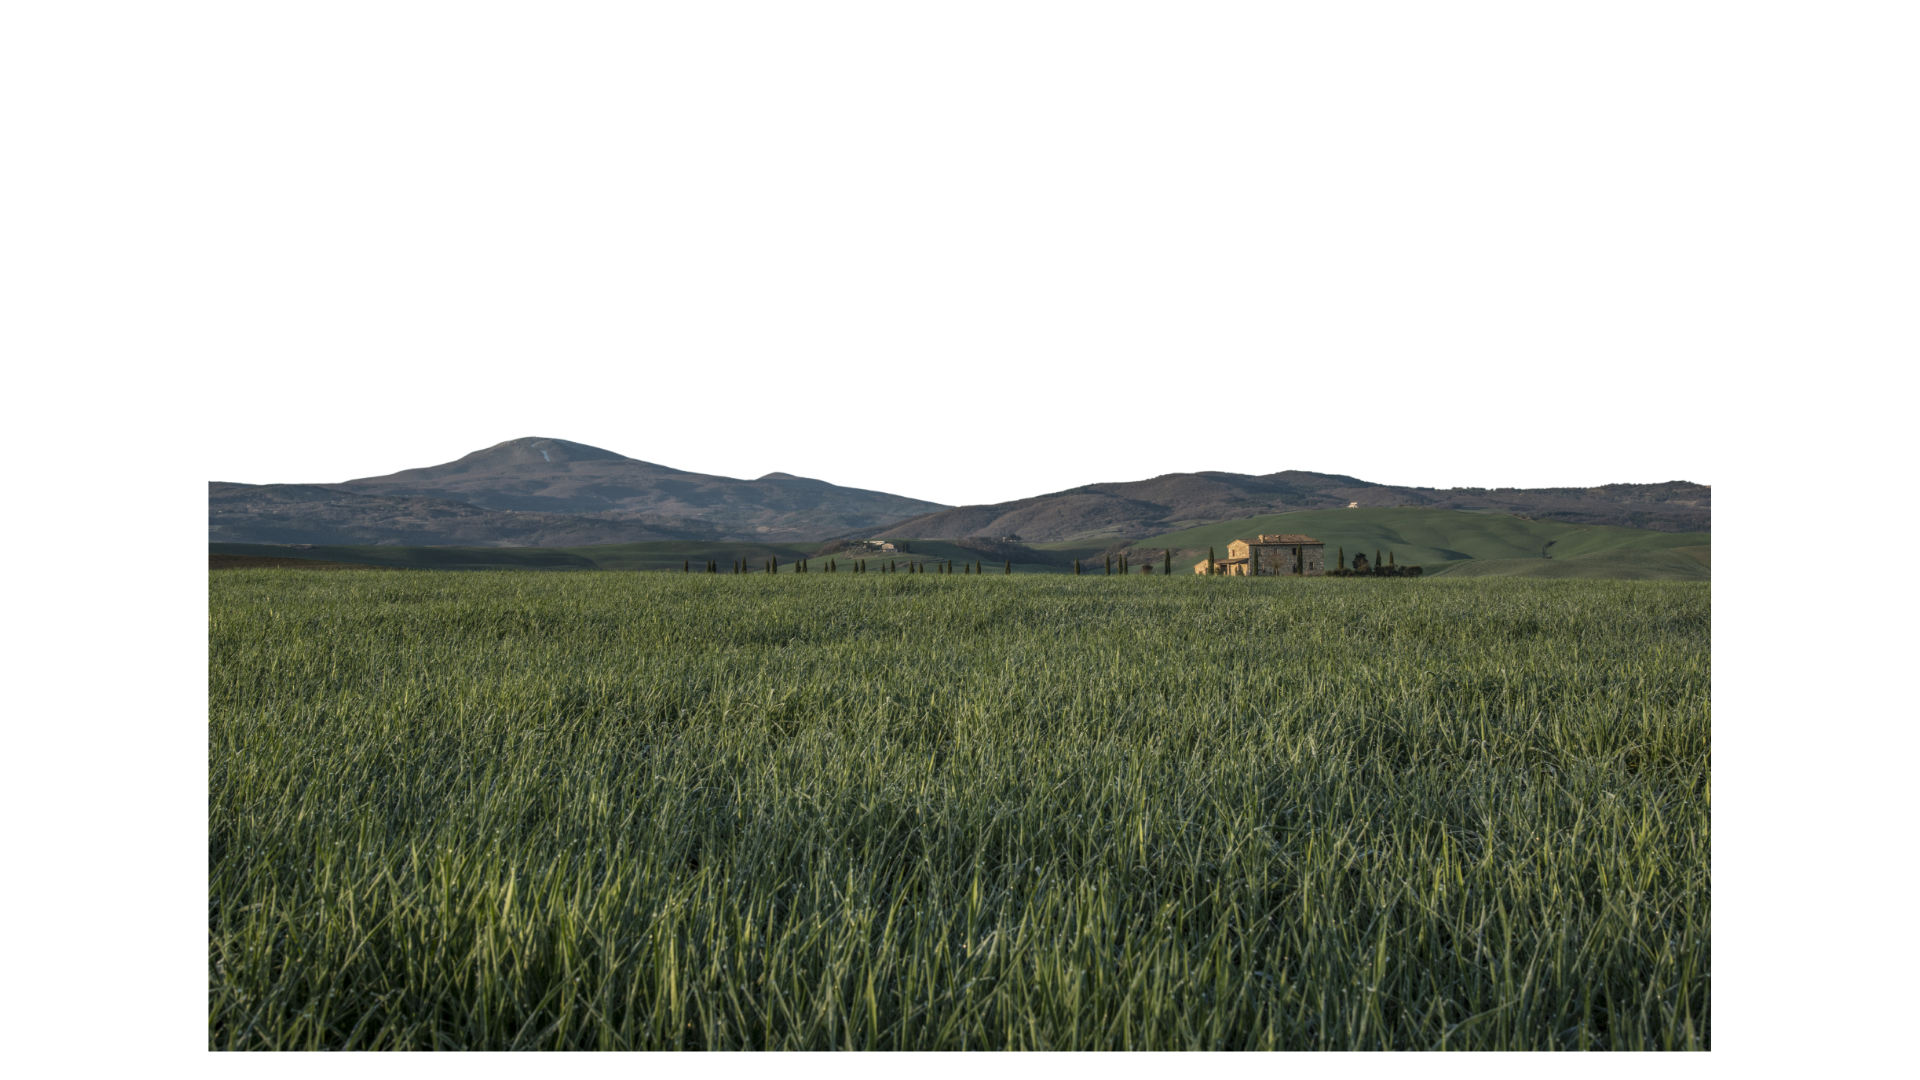
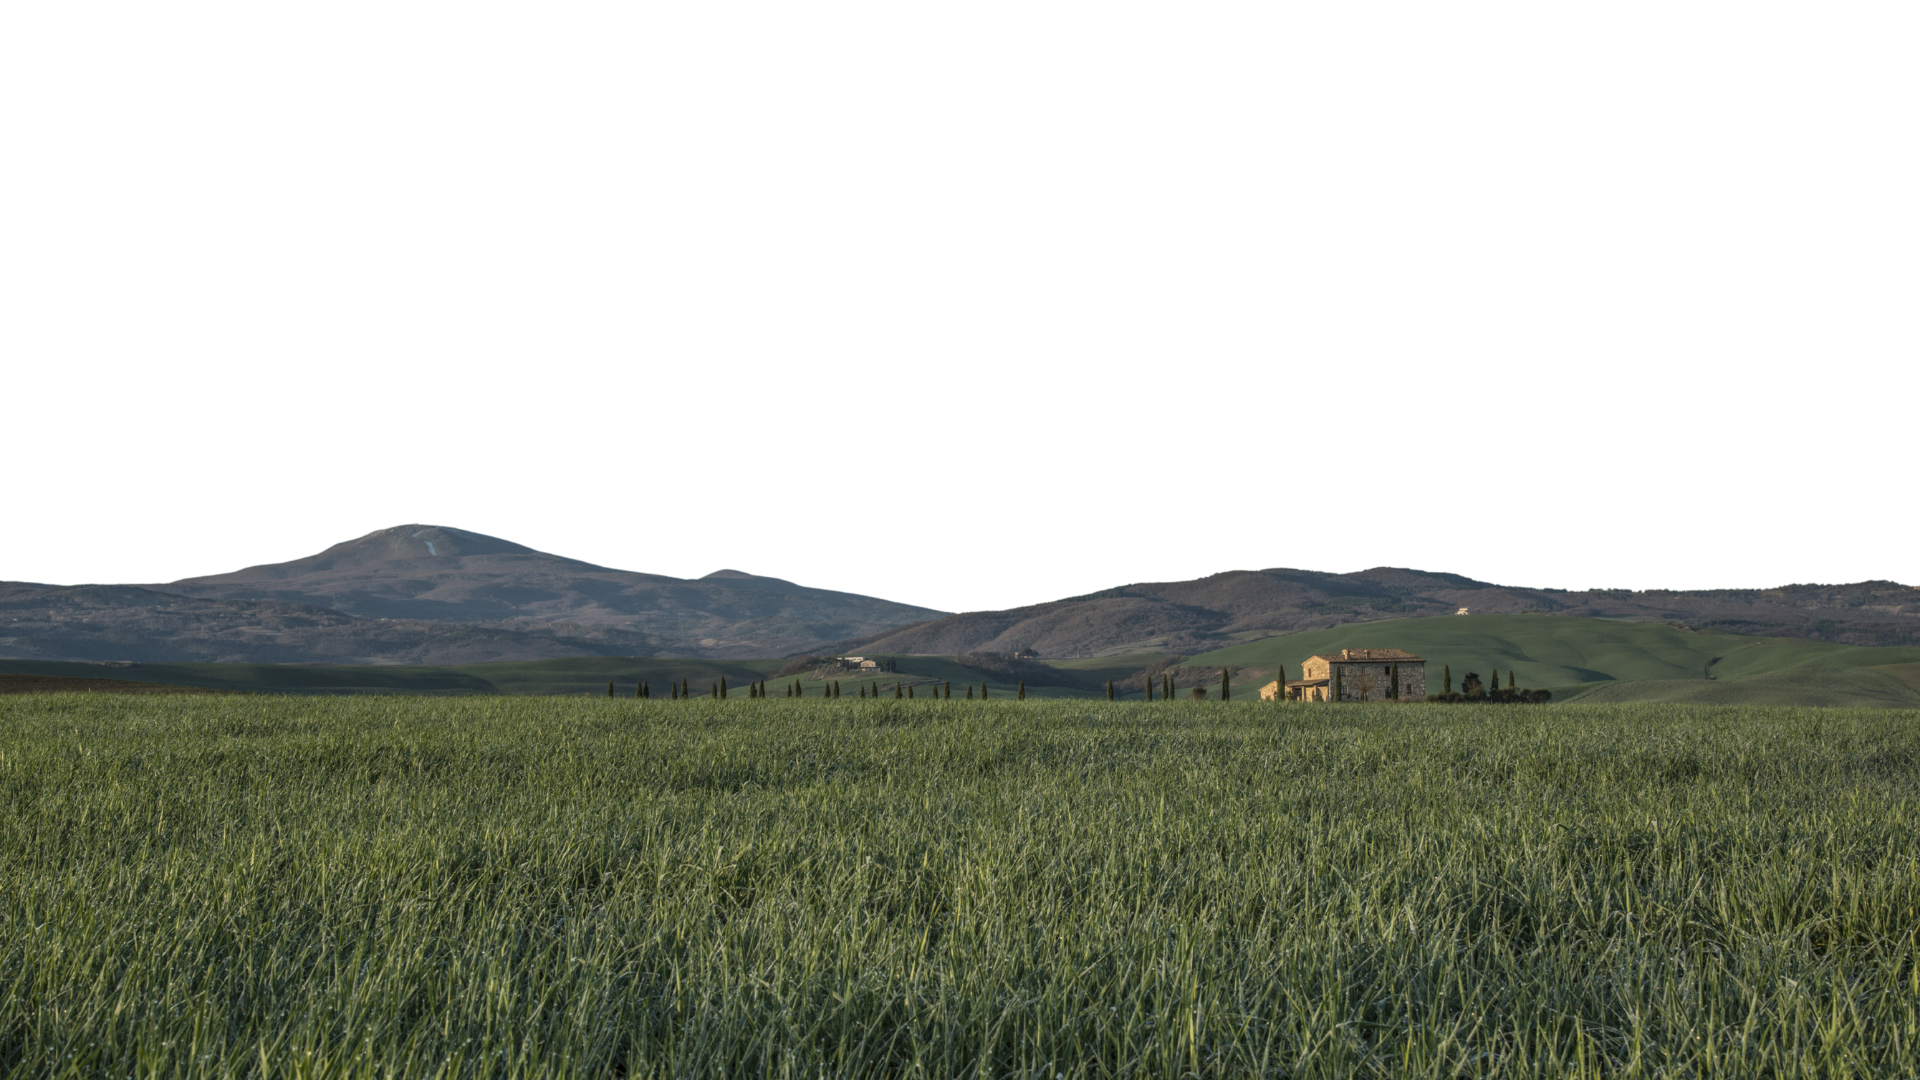
Adjust the hero background image to fill the entire page

diff --git a/style.css b/style.css
@@ -71,17 +71,18 @@ img{
 /* hero */
 .hero{
     margin-bottom: 50px;
-    background: #f5f5f7;
+    background-color: var(--light-color);
 }
 
-.hero .container{
-    background: url(./images/hero-background.png) no-repeat;
+.hero{
+    background-image: url(./images/hero-background.png);
+    height: 100vh;
+    width: 100%;
     background-size: cover;
-    background-position: center bottom;
-    height: 800px;
-    max-width: 100%;
     text-align: center;
 }
+
+
 
 .hero-content{
     display: flex;
@@ -91,9 +92,10 @@ img{
 }
 
 .hero .hero-content{
-    width: 80%;
+    width: 100%;
     margin: 0 auto;
 }
+
 
 .hero .hero-text{
     width: 70%;
@@ -113,7 +115,7 @@ img{
 .hero .product-bag img{
     width: 200px;
     height: auto;
-    margin-top: 20px;
+    margin-top: 100px;
     margin-bottom: 20px;
     filter: drop-shadow(40px 40px 20px rgba(0,0,0,0.5));
 }
@@ -526,7 +528,7 @@ box-shadow: 0 0 10px #0c5a63;
 
 
 /* Media Queries */
-@media(max-width: 1200px){
+@media(max-width: 6000px){
     .benefits .before-after-3{
         width: 1000px;
     }
